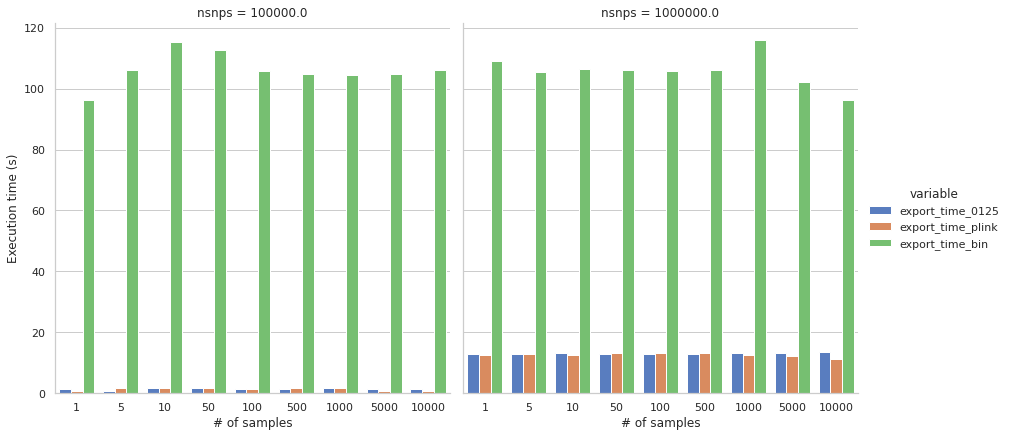
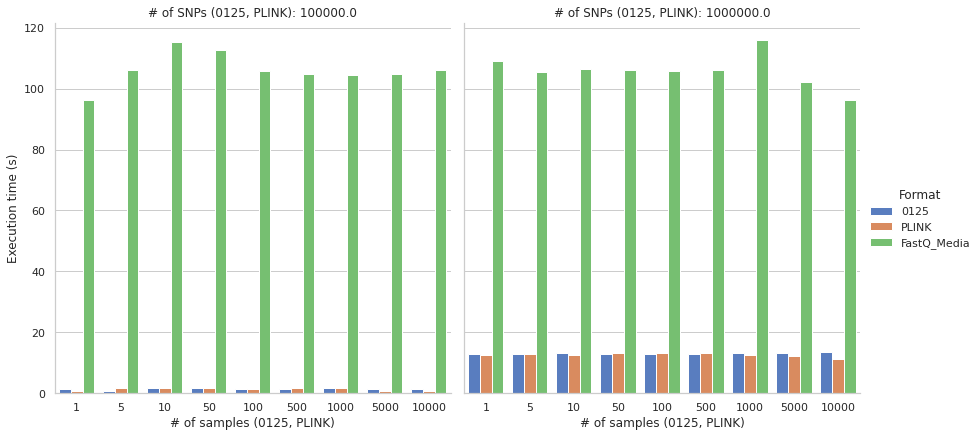
Update export times graphs for better readability

diff --git a/experiment_graphs.py b/experiment_graphs.py
@@ -617,10 +617,18 @@ plt.draw()
 # - Para cada experimento, é armazena um arquivo FastQ e um arquivo de mídia.
 
 # %%
+df_tmp = df.rename(
+    columns={
+        "export_time_0125": "0125",
+        "export_time_plink": "PLINK",
+        "export_time_bin": "FastQ_Media",
+    }
+)
 df_melted = pd.melt(
-    df[df["file_type"] == "ALL"],
+    df_tmp[df_tmp["file_type"] == "ALL"],
     id_vars=["nsamples", "nsnps"],
-    value_vars=["export_time_0125", "export_time_plink", "export_time_bin"],
+    value_vars=["0125", "PLINK", "FastQ_Media"],
+    var_name="Format",
 )
 df_melted.loc[:, "nsamples"] = df_melted["nsamples"].astype(np.int)
 sns.set(style="whitegrid", palette=sns.color_palette("muted", n_colors=6, desat=1.0))
@@ -628,7 +636,7 @@ sns.set(style="whitegrid", palette=sns.color_palette("muted", n_colors=6, desat=
 snsplot = sns.catplot(
     x="nsamples",
     y="value",
-    hue="variable",
+    hue="Format",
     data=df_melted,
     col="nsnps",
     kind="bar",
@@ -636,7 +644,10 @@ snsplot = sns.catplot(
     height=6,
 )
 
-snsplot = snsplot.set_axis_labels("# of samples", "Execution time (s)")
+snsplot = snsplot.set_axis_labels(
+    "# of samples (0125, PLINK)", "Execution time (s)"
+).set_titles(template="# of SNPs (0125, PLINK): {col_name}")
+
 snsplot.savefig(graph_dir + "experiment2_export_times_bin.png")
 plt.draw()
 
